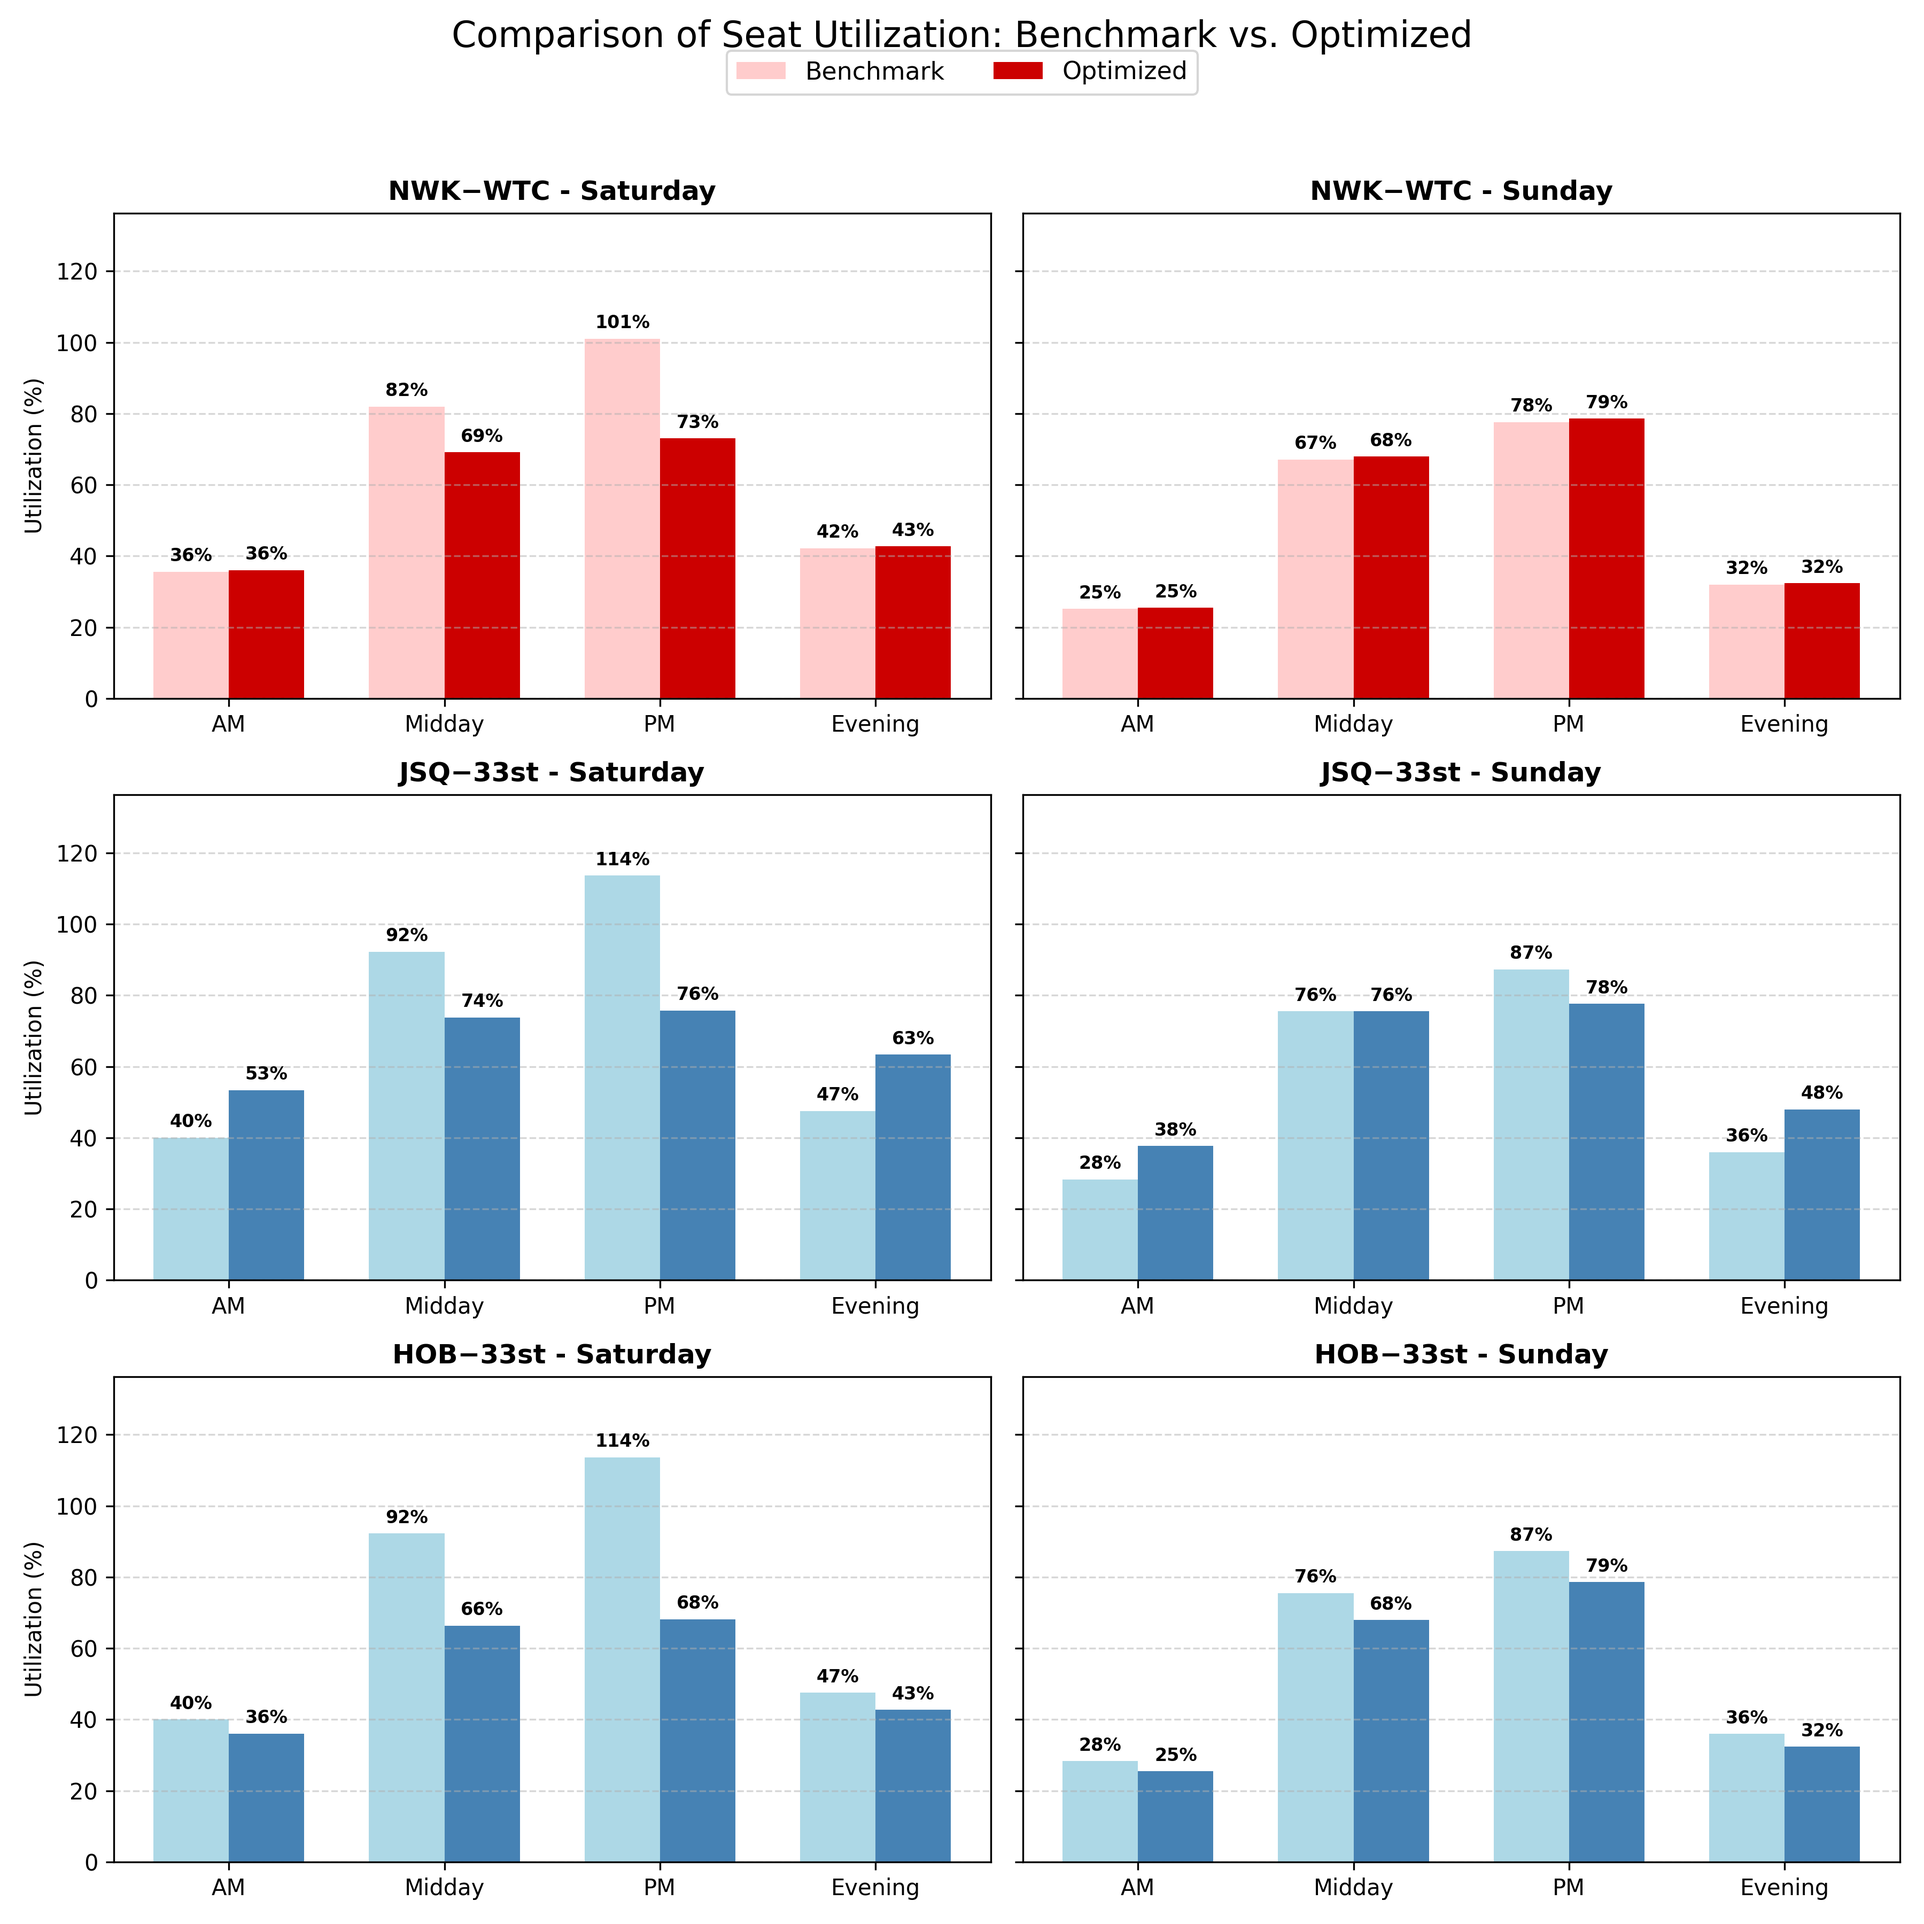
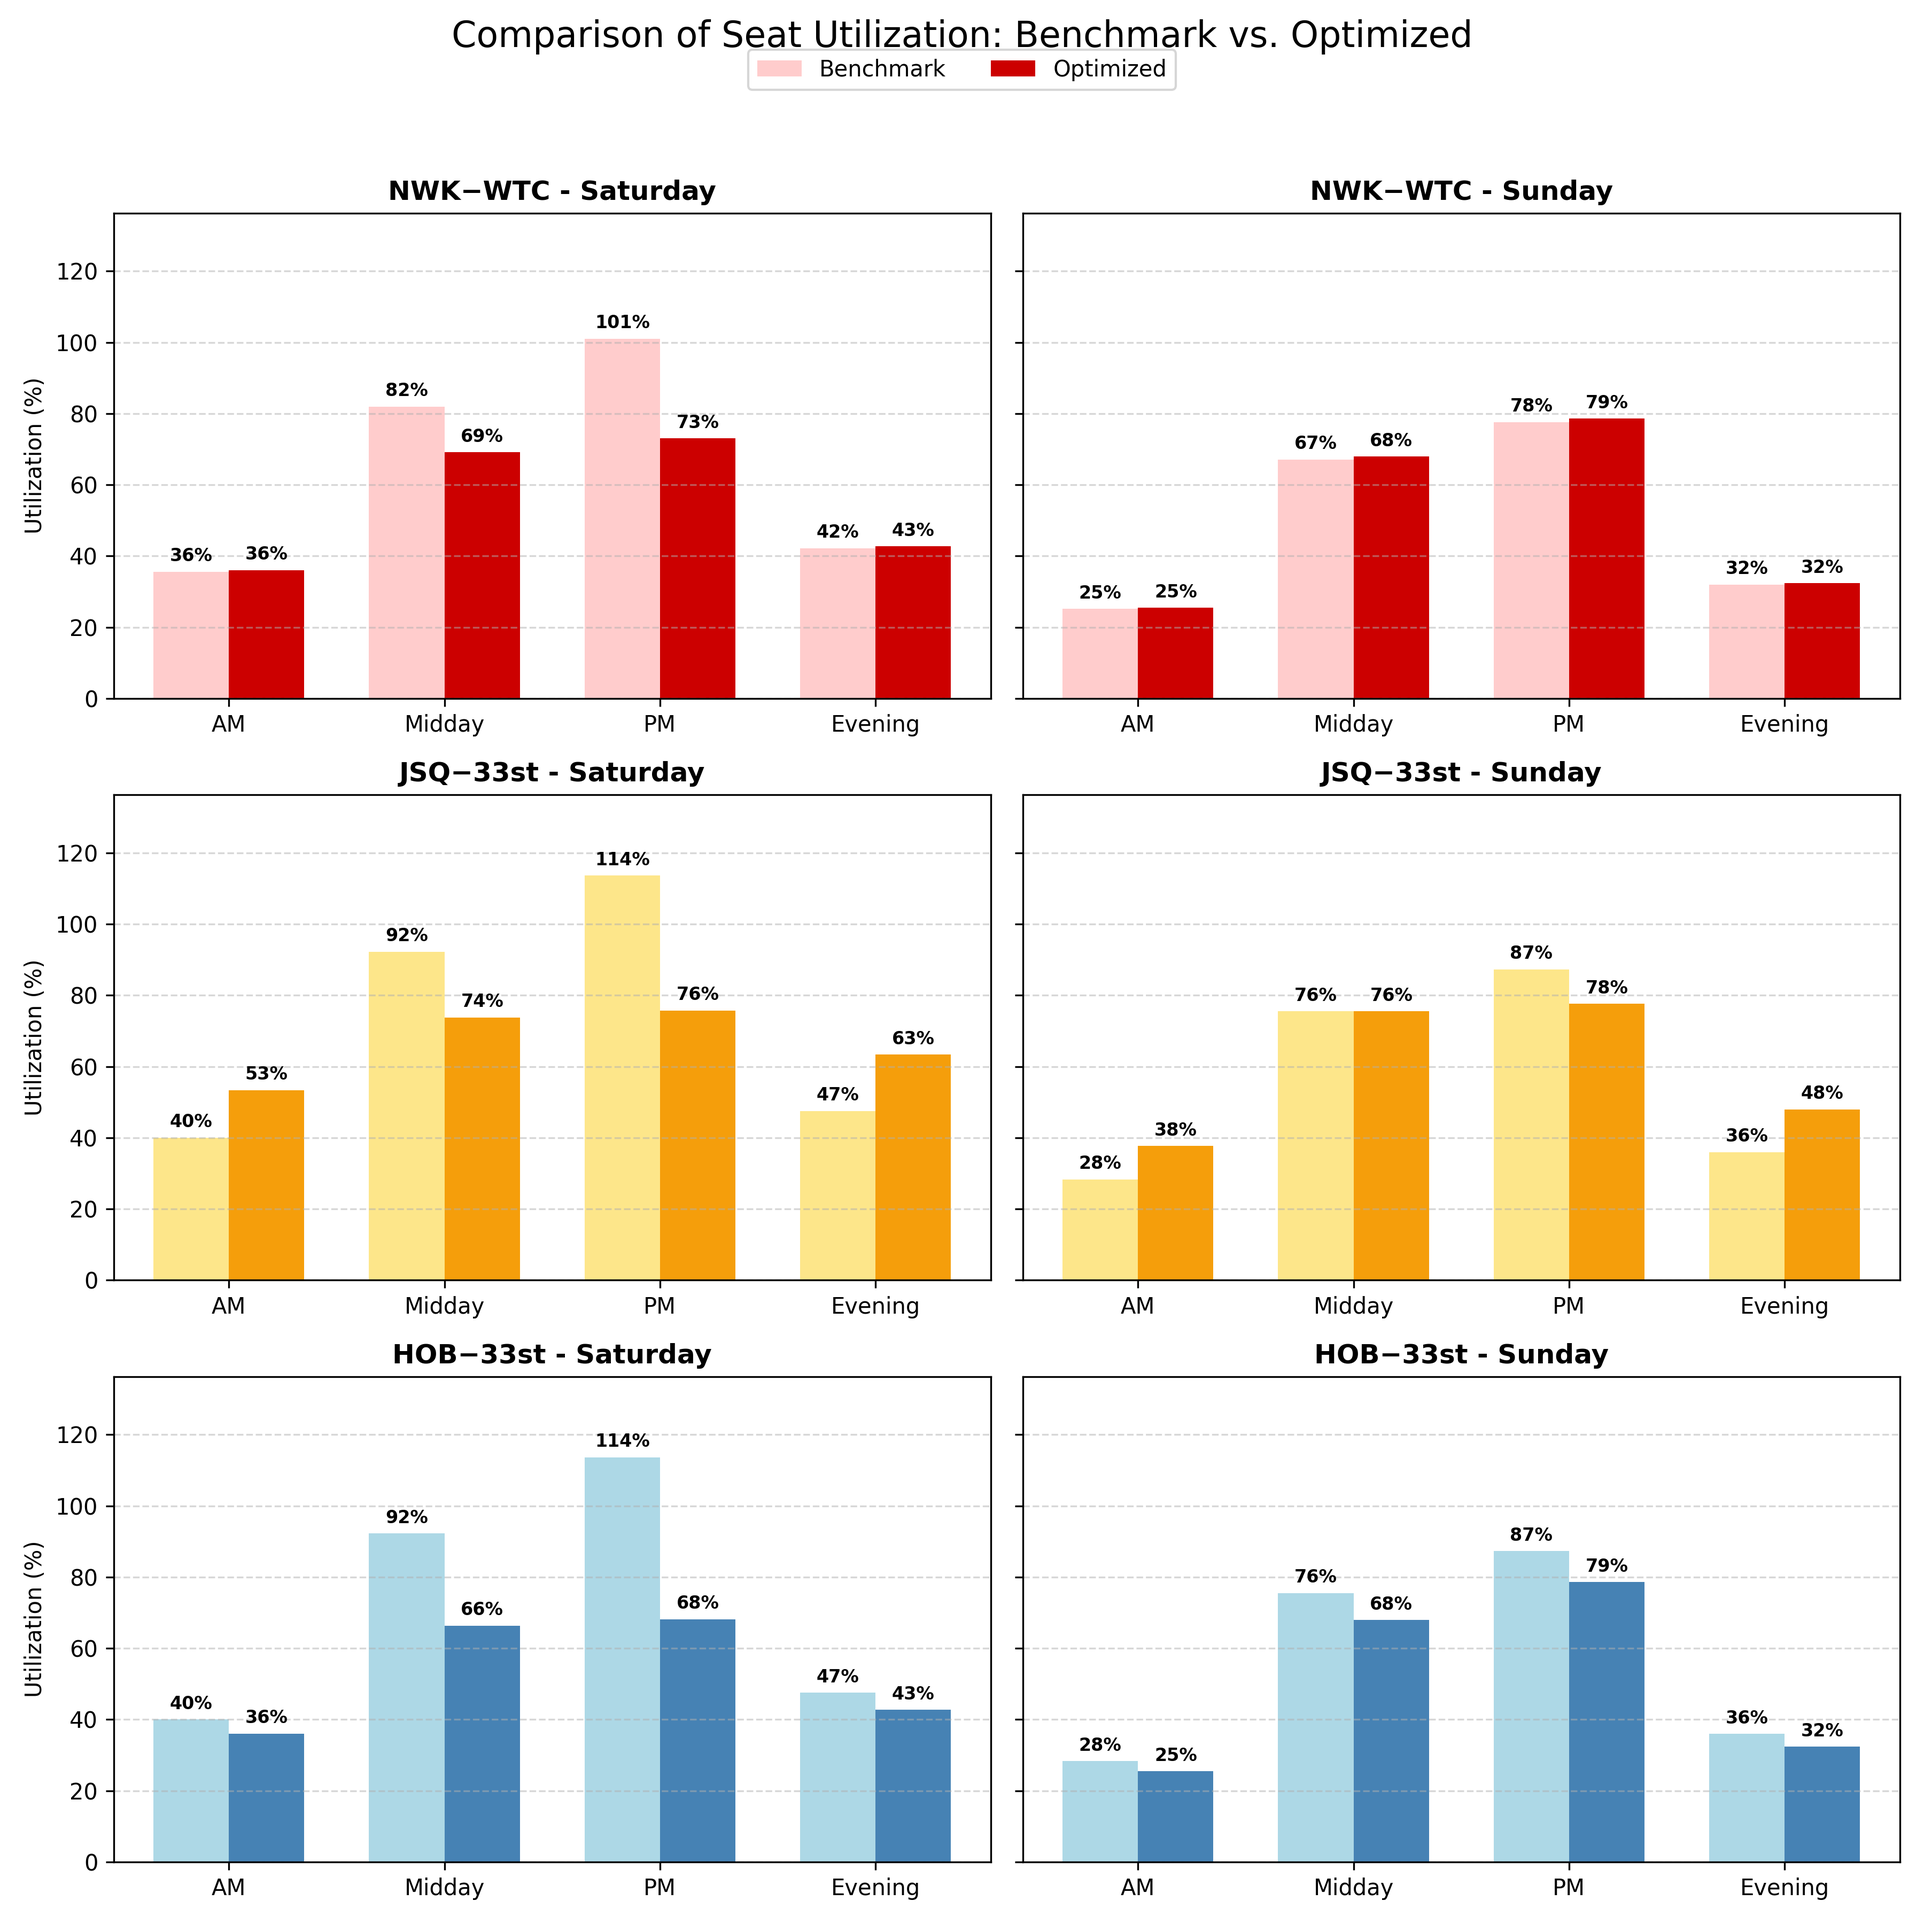
changed color of jsq line to yellow

diff --git a/comparison_charts.py b/comparison_charts.py
@@ -6,12 +6,10 @@ import os
 # 1. Configuration and Data Loading
 # -------------------------------
 INPUT_FILE = "./output/path_utilization_comparison.csv"
-OUTPUT_DIR = "figure"
+OUTPUT_DIR = "charts"
 
-# Create output directory
 os.makedirs(OUTPUT_DIR, exist_ok=True)
 
-# Read the data
 try:
     df = pd.read_csv(INPUT_FILE)
 except FileNotFoundError:
@@ -40,12 +38,32 @@ lines = df[col_line].unique()
 days = df[col_day].unique()
 
 # -------------------------------
-# 3. Plotting Logic
+# 3. COLOR FUNCTION (NEW)
+# -------------------------------
+def get_colors(line_name):
+    line = line_name.upper()
+
+    if "NWK" in line or "WTC" in line:
+        # NWK–WTC → Red
+        return '#ffcccc', '#cc0000'
+    elif "JSQ" in line and "33" in line:
+        # JSQ–33rd → Yellow
+        return '#fde68a', '#f59e0b'
+    else:
+        # HOB–33rd → Blue
+        return '#add8e6', '#4682b4'
+
+# -------------------------------
+# 4. UTILIZATION COMPARISON PLOTS
 # -------------------------------
 n_lines = len(lines)
 n_days = len(days)
 
-fig, axes = plt.subplots(n_lines, n_days, figsize=(5 * n_days + 2, 4 * n_lines), sharey=True)
+fig, axes = plt.subplots(
+    n_lines, n_days,
+    figsize=(5 * n_days + 2, 4 * n_lines),
+    sharey=True
+)
 
 if n_lines == 1 and n_days == 1:
     axes = [[axes]]
@@ -55,94 +73,88 @@ elif n_days == 1:
     axes = [[ax] for ax in axes]
 
 bar_width = 0.35
-# Increase Y-axis limit slightly to fit labels
-y_max = df[[col_benchmark, col_optimized]].max().max() * 1.20 
+y_max = df[[col_benchmark, col_optimized]].max().max() * 1.20
 
-print("Generating charts with full labels...")
+print("Generating utilization charts...")
 
 for i, line in enumerate(lines):
     for j, day in enumerate(days):
         ax = axes[i][j]
-        
+
         data = df[(df[col_line] == line) & (df[col_day] == day)].sort_values(by=col_period)
-        
+
         if data.empty:
             ax.text(0.5, 0.5, "No Data", ha='center', va='center')
             continue
 
         x = range(len(data))
-        
-        # Color Logic
-        if "NWK" in line or "WTC" in line:
-            c_bench = '#ffcccc' # Light Red
-            c_opt = '#cc0000'   # Dark Red
-        else:
-            c_bench = '#add8e6' # Light Blue
-            c_opt = '#4682b4'   # Steel Blue
-        
-        # Plot Bars
-        rects1 = ax.bar([k - bar_width/2 for k in x], data[col_benchmark], 
-                        width=bar_width, label='Benchmark', color=c_bench)
-        rects2 = ax.bar([k + bar_width/2 for k in x], data[col_optimized], 
-                        width=bar_width, label='Optimized', color=c_opt)
-        
-        # Titles and Ticks
+        c_bench, c_opt = get_colors(line)
+
+        rects1 = ax.bar(
+            [k - bar_width / 2 for k in x],
+            data[col_benchmark],
+            width=bar_width,
+            label='Benchmark',
+            color=c_bench
+        )
+
+        rects2 = ax.bar(
+            [k + bar_width / 2 for k in x],
+            data[col_optimized],
+            width=bar_width,
+            label='Optimized',
+            color=c_opt
+        )
+
         ax.set_title(f"{line} - {day}", fontsize=12, fontweight='bold')
         ax.set_xticks(x)
         ax.set_xticklabels(data[col_period])
-        
+
         if j == 0:
             ax.set_ylabel("Utilization (%)")
-            
+
         ax.set_ylim(0, y_max)
         ax.grid(axis='y', linestyle='--', alpha=0.5)
 
-        # -------------------------------------------------------
-        # NEW: Function to add labels to both sets of bars
-        # -------------------------------------------------------
+        # Label bars
         def add_labels(rects):
-            for rect in rects:
-                height = rect.get_height()
-                ax.annotate(f'{height:.0f}%',
-                            xy=(rect.get_x() + rect.get_width() / 2, height),
-                            xytext=(0, 3),  # Vertical offset
-                            textcoords="offset points",
-                            ha='center', va='bottom', fontsize=8, fontweight='bold')
+            for r in rects:
+                h = r.get_height()
+                ax.annotate(
+                    f'{h:.0f}%',
+                    xy=(r.get_x() + r.get_width() / 2, h),
+                    xytext=(0, 3),
+                    textcoords="offset points",
+                    ha='center',
+                    va='bottom',
+                    fontsize=8,
+                    fontweight='bold'
+                )
 
-        # Apply labels to Benchmark bars
         add_labels(rects1)
-        # Apply labels to Optimized bars
         add_labels(rects2)
-        # -------------------------------------------------------
 
-# -------------------------------
-# 4. Layout and Saving
-# -------------------------------
 handles, labels = axes[0][0].get_legend_handles_labels()
-fig.legend(handles, labels, loc='upper center', ncol=2, bbox_to_anchor=(0.5, 0.98), fontsize=11)
+fig.legend(handles, labels, loc='upper center', ncol=2, bbox_to_anchor=(0.5, 0.98))
 
 plt.suptitle("Comparison of Seat Utilization: Benchmark vs. Optimized", fontsize=16, y=0.99)
 plt.tight_layout(rect=[0, 0, 1, 0.95])
 
-save_path = os.path.join(OUTPUT_DIR, "utilization_comparison_labeled.png")
-plt.savefig(save_path, dpi=300)
+util_save = os.path.join(OUTPUT_DIR, "utilization_comparison_labeled.png")
+plt.savefig(util_save, dpi=300)
 plt.close()
 
-print(f"Charts successfully generated and saved to: {save_path}")
+print(f"Saved: {util_save}")
 
-# =====================================================
-# 5. WAIT TIME COMPARISON PLOT (NEW FIGURE)
-# =====================================================
-
-# Compute wait times (minutes)
-BENCH_FREQ = 3.0  # must match benchmark assumption
+# -------------------------------
+# 5. WAIT TIME COMPARISON PLOTS
+# -------------------------------
+BENCH_FREQ = 3.0
 
 df["Bench_Wait_Min"] = 60.0 / (2.0 * BENCH_FREQ)
 df["Opt_Wait_Min"] = 60.0 / (2.0 * df["Opt_Freq"])
 
 df = df.dropna(subset=["Bench_Wait_Min", "Opt_Wait_Min"])
-
-# Y-axis upper bound
 wait_ymax = max(df["Bench_Wait_Min"].max(), df["Opt_Wait_Min"].max()) * 1.25
 
 fig, axes = plt.subplots(
@@ -158,7 +170,7 @@ elif n_lines == 1:
 elif n_days == 1:
     axes = [[ax] for ax in axes]
 
-print("Generating wait time comparison charts...")
+print("Generating wait time charts...")
 
 for i, line in enumerate(lines):
     for j, day in enumerate(days):
@@ -171,14 +183,7 @@ for i, line in enumerate(lines):
             continue
 
         x = range(len(data))
-
-        # Color Logic (same as utilization)
-        if "NWK" in line or "WTC" in line:
-            c_bench = '#ffcccc'
-            c_opt = '#cc0000'
-        else:
-            c_bench = '#add8e6'
-            c_opt = '#4682b4'
+        c_bench, c_opt = get_colors(line)
 
         rects1 = ax.bar(
             [k - bar_width / 2 for k in x],
@@ -206,7 +211,6 @@ for i, line in enumerate(lines):
         ax.set_ylim(0, wait_ymax)
         ax.grid(axis="y", linestyle="--", alpha=0.5)
 
-        # Label bars
         def add_wait_labels(rects):
             for r in rects:
                 h = r.get_height()
@@ -224,15 +228,8 @@ for i, line in enumerate(lines):
         add_wait_labels(rects1)
         add_wait_labels(rects2)
 
-# Legend & layout
 handles, labels = axes[0][0].get_legend_handles_labels()
-fig.legend(
-    handles, labels,
-    loc="upper center",
-    ncol=2,
-    bbox_to_anchor=(0.5, 0.98),
-    fontsize=11
-)
+fig.legend(handles, labels, loc="upper center", ncol=2, bbox_to_anchor=(0.5, 0.98))
 
 plt.suptitle(
     "Comparison of Average Passenger Wait Time: Benchmark vs. Optimized",
@@ -242,8 +239,8 @@ plt.suptitle(
 
 plt.tight_layout(rect=[0, 0, 1, 0.95])
 
-wait_save_path = os.path.join(OUTPUT_DIR, "wait_time_comparison_labeled.png")
-plt.savefig(wait_save_path, dpi=300)
+wait_save = os.path.join(OUTPUT_DIR, "wait_time_comparison_labeled.png")
+plt.savefig(wait_save, dpi=300)
 plt.close()
 
-print(f"Wait time charts successfully generated and saved to: {wait_save_path}")
+print(f"Saved: {wait_save}")
